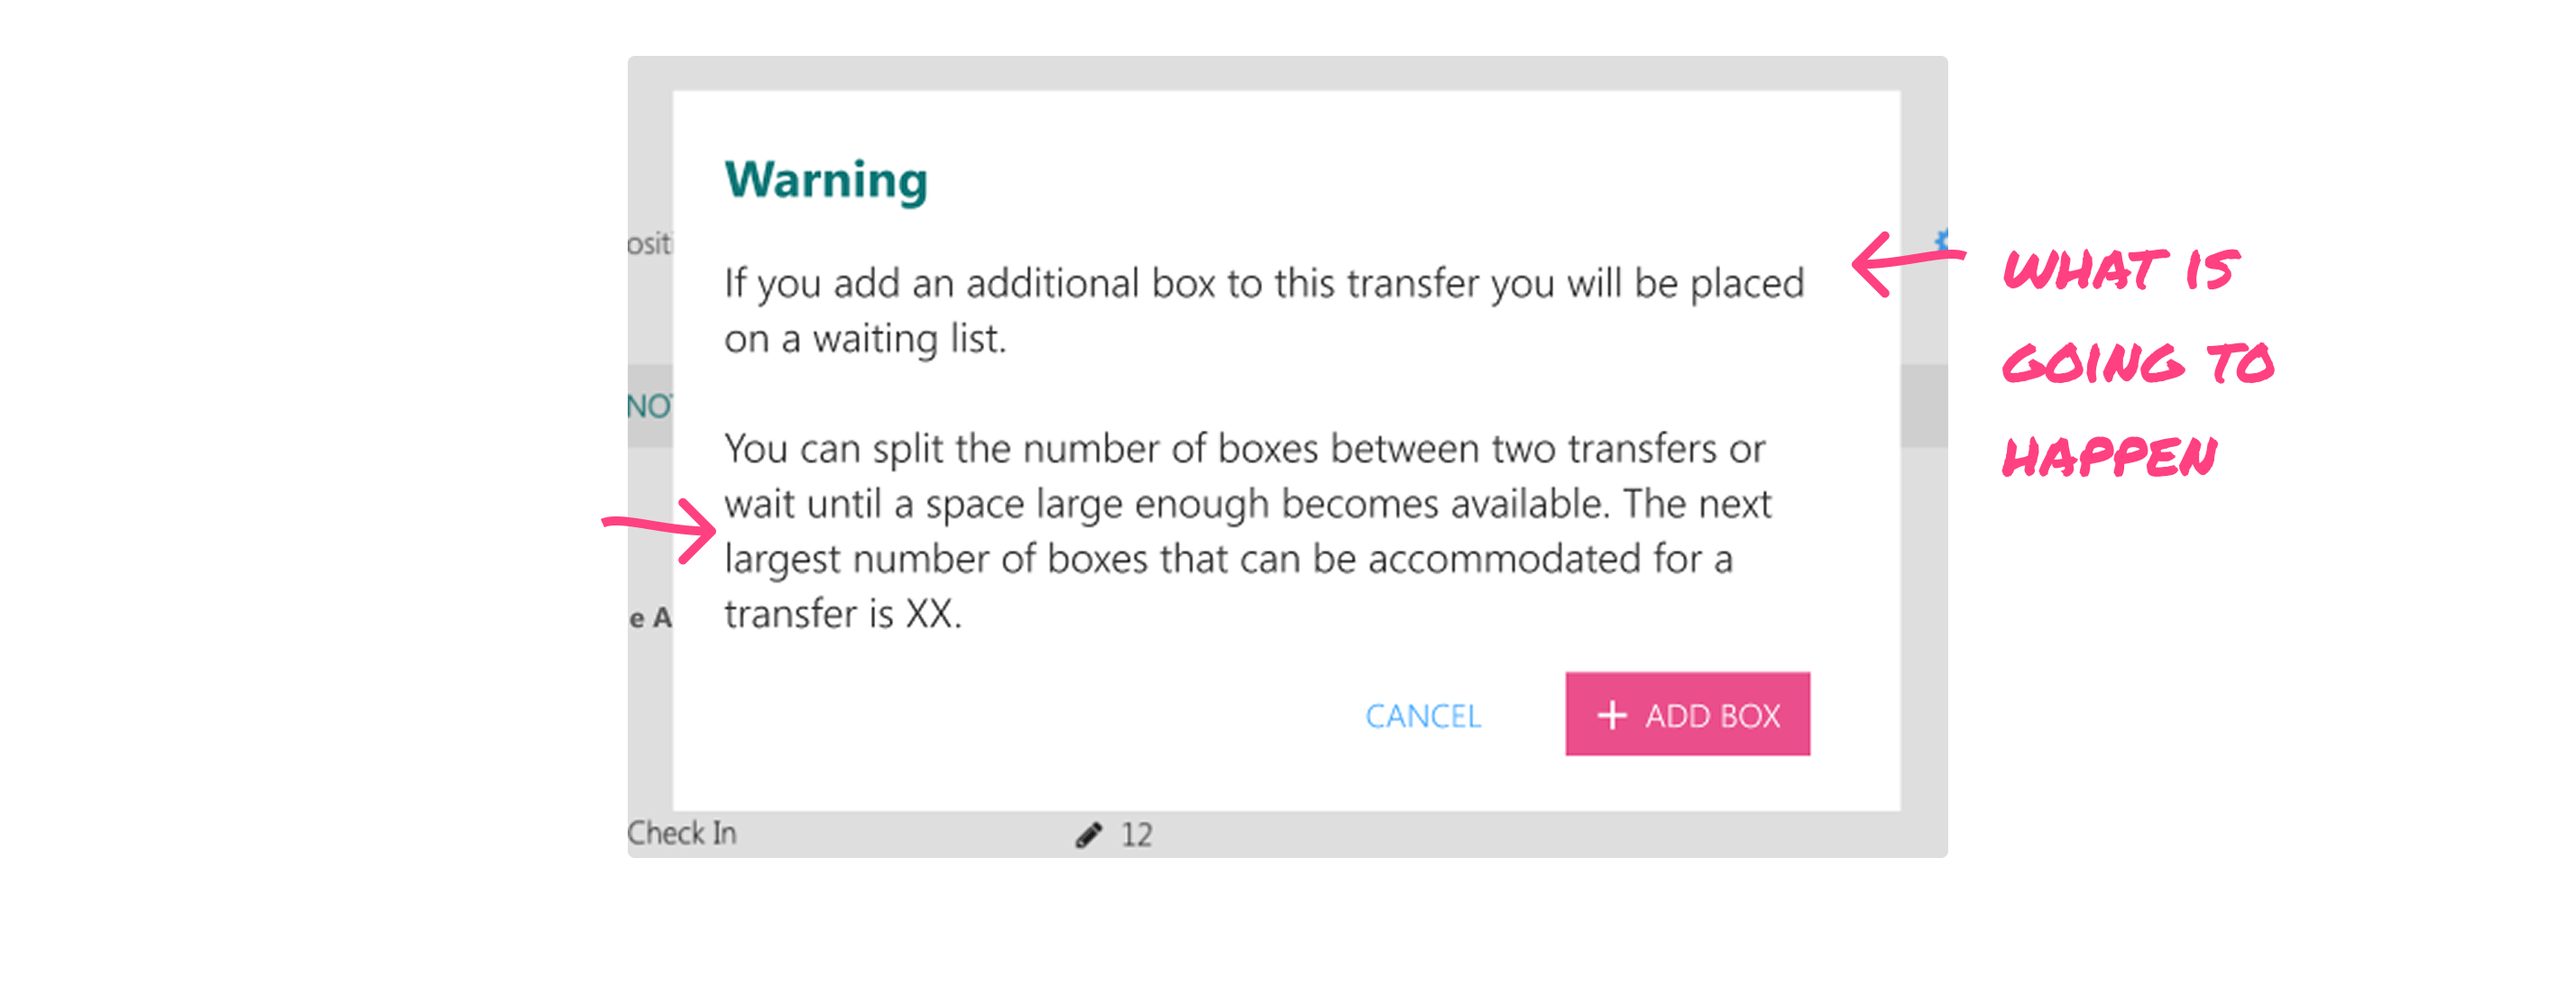
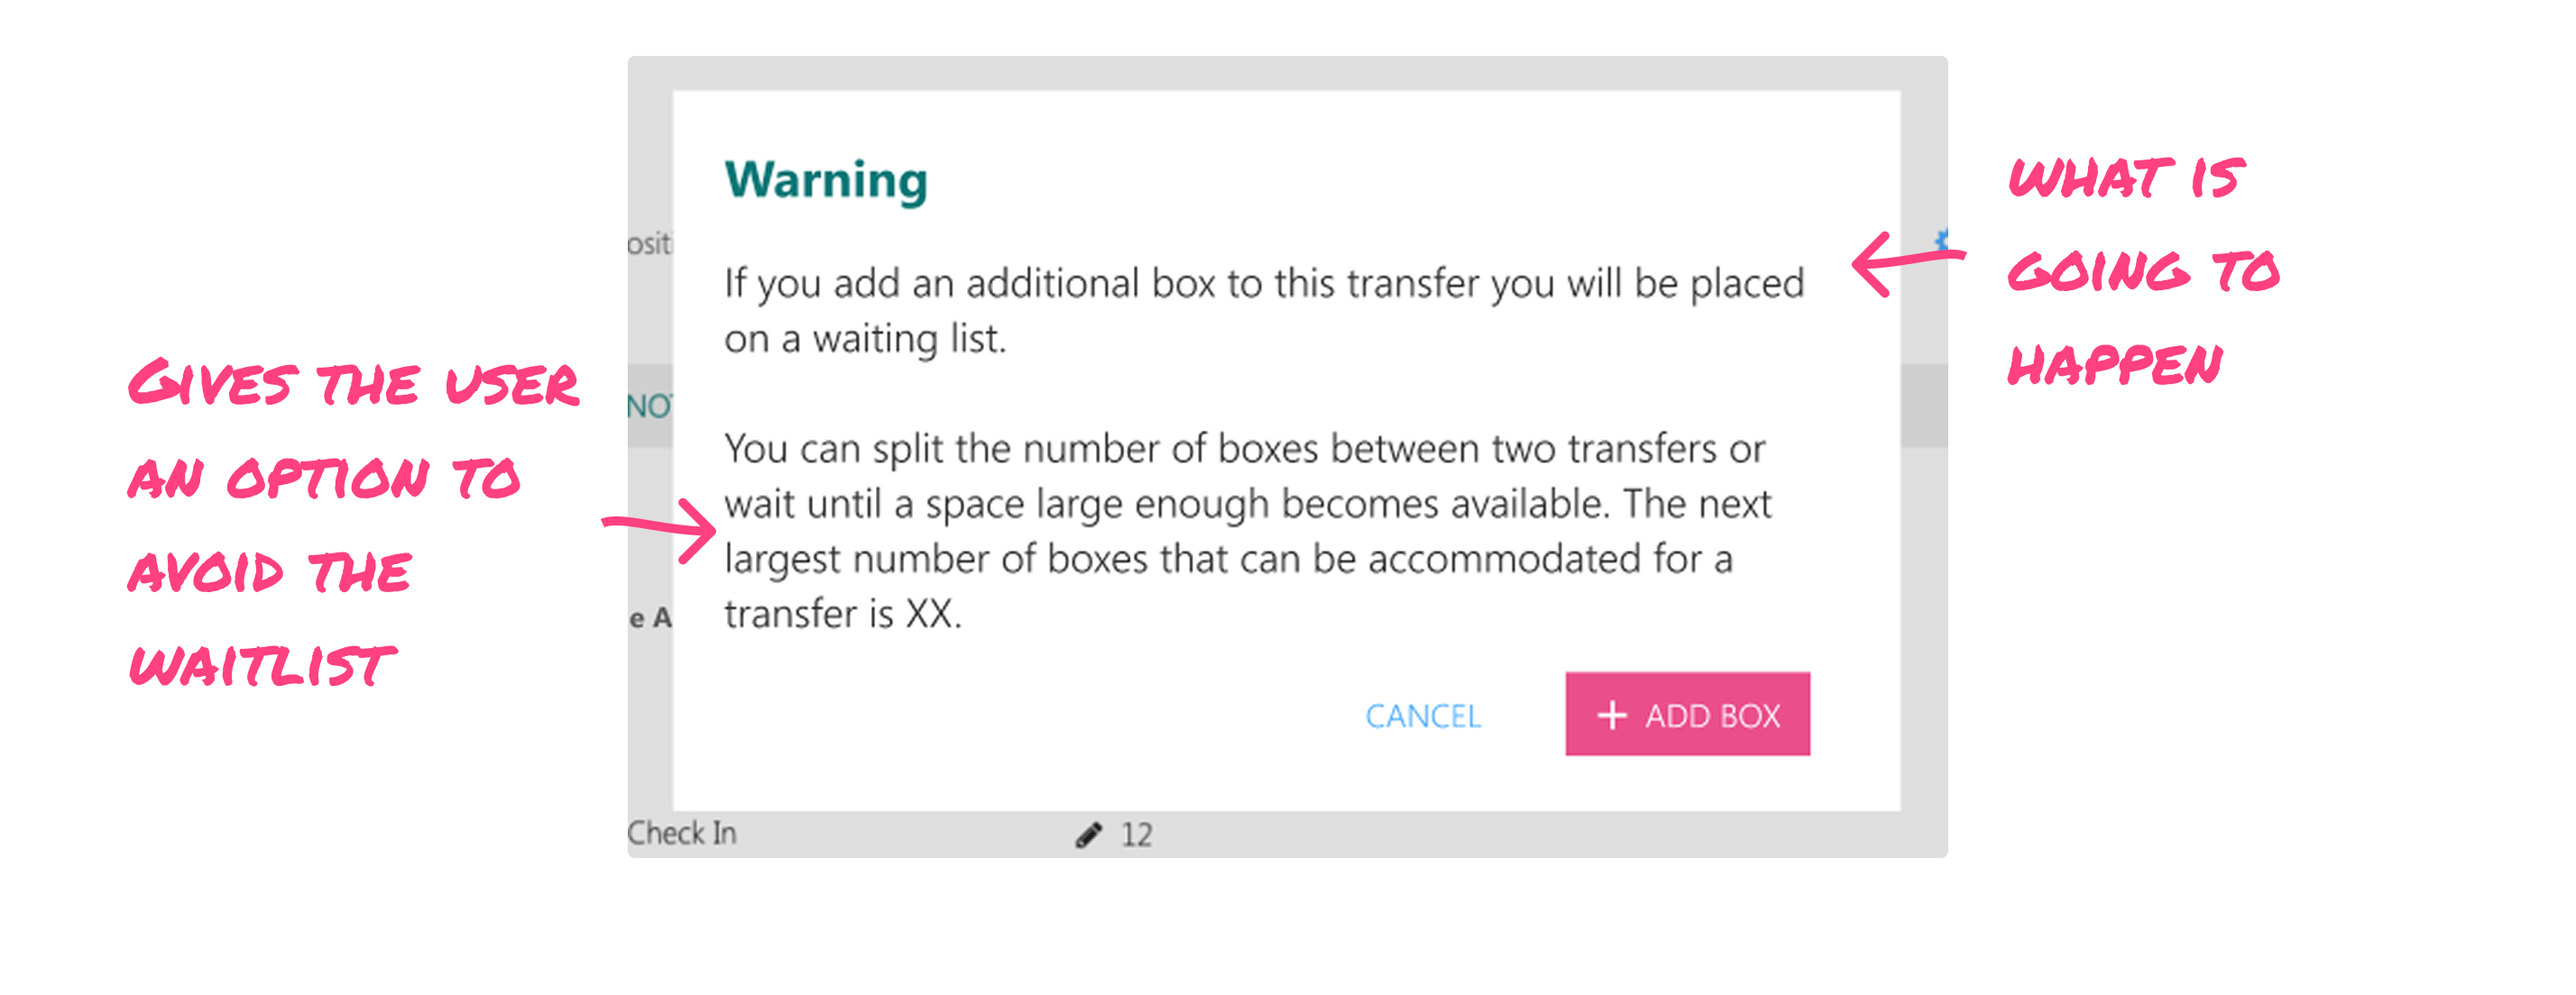
Update RMS waitlist warning image
Swap in the new annotated warning screen (both callouts: what happens, and the
option to avoid the waitlist). Cache-bust the reference with ?v=2 so browsers
fetch the new version.

diff --git a/rms.html b/rms.html
@@ -176,7 +176,7 @@
         </div>
 
         <figure class="story-figure">
-          <img src="images/rms-waitlist-warning.png" alt="A warning modal: adding another box will place the transfer on a waiting list; the client can split boxes across two transfers or wait for a large enough space.">
+          <img src="images/rms-waitlist-warning.png?v=2" alt="A warning modal: adding another box will place the transfer on a waiting list; the client can split boxes across two transfers or wait for a large enough space.">
           <figcaption>The warning explains what happens next &mdash; split the transfer, or wait for space.</figcaption>
         </figure>
 
